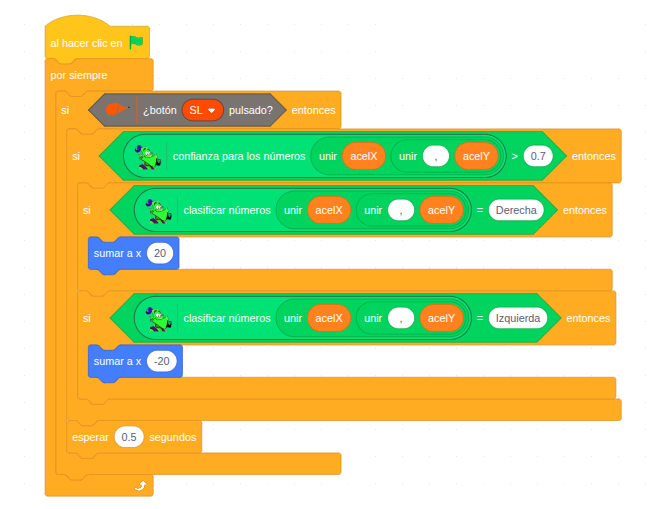
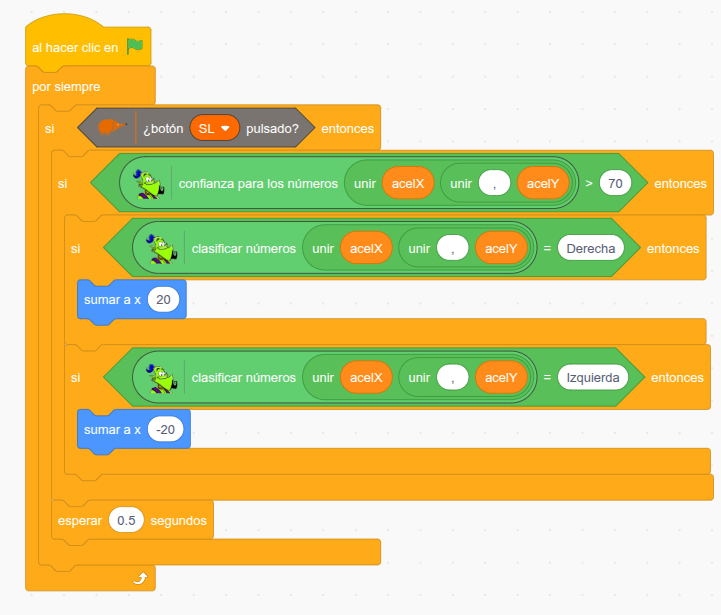
Completa el programa del Mando de inclinación (3.3)
Añade el script que lee el acelerómetro y da valor a acelX y acelY, y
corrige el umbral de confianza a 70. Capturas tomadas del manual (5.3.3).

diff --git a/docs/03-ia/03-mando-inclinacion.md b/docs/03-ia/03-mando-inclinacion.md
@@ -61,7 +61,13 @@ Si el modelo se equivoca, volvemos a **2.1 Entrenar**: añadimos más ejemplos o
 
 ## 3. Programación
 
-Cuando el modelo funcione bien, abrimos **EchidnaBlocks** y construimos el programa:
+Cuando el modelo funcione bien, abrimos **EchidnaBlocks** y construimos el programa, que tiene dos scripts.
+
+El primero lee continuamente el **acelerómetro** y guarda los ejes X e Y en las variables `acelX` y `acelY`. También guarda en `Confianza` y `Sentido` la confianza y la clase que da el modelo, para verlas en el escenario mientras inclinamos la placa:
+
+![Lectura del acelerómetro](../assets/images/LMLModeloNumeros-ValoresAcel.png "Lectura del acelerómetro")
+
+El segundo mueve el echidna según la clase:
 
 ![Bloques programación Mando de inclinación](../assets/images/NumerosEchidnaBlocks.png "Bloques programación Mando de inclinación")
 
